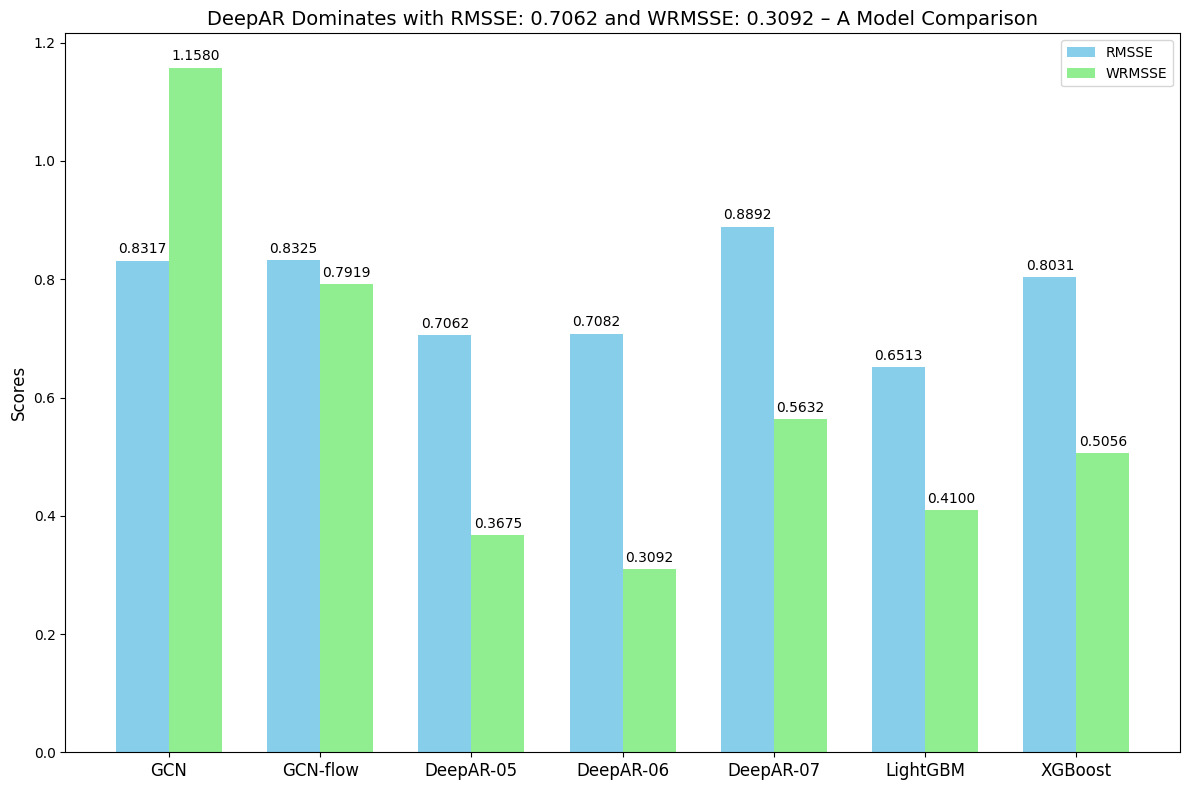
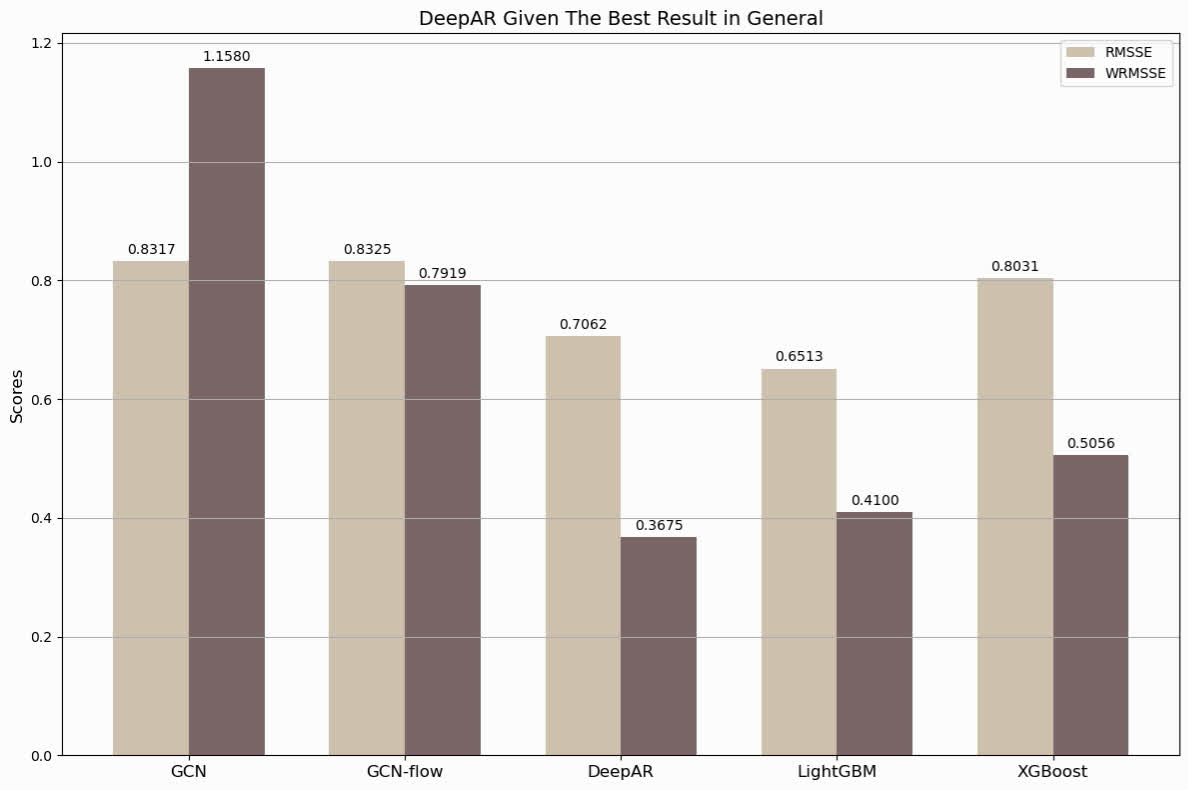
OK

diff --git a/p1.html b/p1.html
@@ -170,6 +170,10 @@
                   <img src="assets/img/p1.jpeg" alt="">
                 </div>
 
+                <div class="swiper-slide">
+                  <img src="assets/img/p1_1.jpeg" alt="">
+                </div>
+
               </div>
               <div class="swiper-pagination"></div>
             </div>